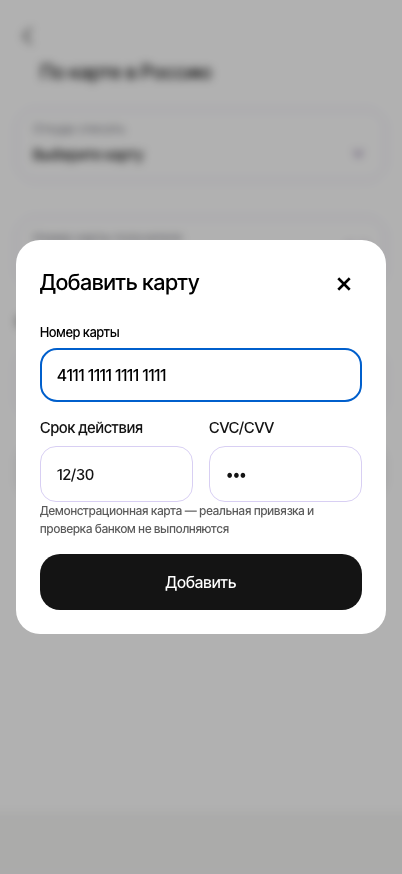
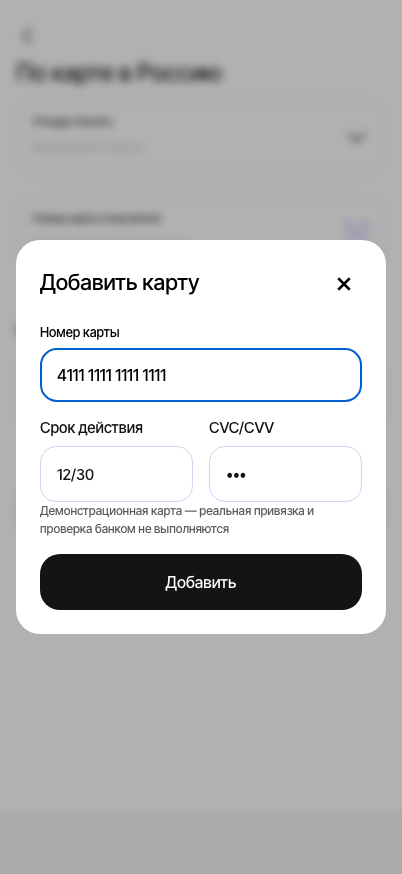
Align card transfer states, fee visibility and input borders with Figma

diff --git a/src/authorized-transfer.js b/src/authorized-transfer.js
@@ -30,7 +30,7 @@ export function createAuthorizedTransfer({ cards, card, recipient, transferKind,
     if (country) transferKind = country === 'RU' ? 'russia' : 'abroad';
   }
   const screen = document.createElement('main');
-  screen.className = 'authorized-transfer';
+  screen.className = 'authorized-transfer card-transfer';
   let source = guest ? cards[0] : repeatAmount != null ? cards.find(c => c.id === card?.id) || null : null;
   let savedRecipient = recipient || null;
   let bank = savedRecipient?.bankInfo || null;
@@ -38,6 +38,8 @@ export function createAuthorizedTransfer({ cards, card, recipient, transferKind,
   let lookupTimer;
   let availability = savedRecipient ? demoCardAvailability('', { saved: true }) : null;
   const international = transferKind === 'abroad';
+  const sourceName = c => c.id === 'debit' ? 'МТС Банк' : c.currency === 'USD' ? 'International' : c.name;
+  const sourceOption = c => `<button type="button" data-source="${escapeHTML(c.id)}" aria-pressed="${source?.id === c.id}" title="${c.balance == null ? 'Баланс недоступен' : 'Доступно '+money(c.balance,c.currency)}"><span class="source-bank-icon ${c.id === 'debit' ? '' : 'is-international'}"><img src="./assets/images/${c.id === 'debit' ? 'card-bank-mts.png' : 'card-bank-international.svg'}" alt=""></span><span class="source-option-copy"><span>${escapeHTML(sourceName(c))} •• ${escapeHTML(c.last4)}</span><small>${c.external ? 'Баланс недоступен' : c.id === 'debit' ? 'МИР' : 'Mastercard'}</small></span><img class="source-radio" src="./assets/images/${source?.id === c.id ? 'card-radio-selected.svg' : 'card-radio-empty.svg'}" alt=""></button>`;
   const title = transferKind === 'abroad' ? 'По карте за границу' : 'По карте в Россию';
   screen.innerHTML = `
     <button class="authorized-back" aria-label="Назад"><img src="./assets/images/back-chevron.svg" alt=""></button>
@@ -45,13 +47,15 @@ export function createAuthorizedTransfer({ cards, card, recipient, transferKind,
     <form novalidate>
       ${international ? '<section class="international-destination"><h2>Страна и валюта получения</h2><p>Россия → Узбекистан · RUB → UZS</p><p class="quote-note">Демонстрационный расчёт</p></section>' : ''}
       <section class="source-section">
-        <div class="source-dropdown"><button type="button" class="source-trigger" aria-expanded="false" aria-controls="source-options"><span class="field-caption">Откуда списать</span><span class="source-value">Выберите карту</span><span class="source-chevron">⌄</span></button>
-          <div id="source-options" class="source-options" hidden>${cards.map(c=>`<button type="button" data-source="${c.id}"><span>${escapeHTML(c.name)} •• ${escapeHTML(c.last4)}</span><small>${c.external ? 'Баланс недоступен' : 'Доступно '+money(c.balance, c.currency)}</small></button>`).join('')}<button type="button" data-add-card>＋ Добавить карту</button></div>
+        <div class="source-dropdown"><button type="button" class="source-trigger" aria-expanded="false" aria-controls="source-options"><span class="field-caption">Откуда списать</span><span class="source-value">Выберите карту</span><img class="source-chevron" src="./assets/images/card-source-chevron.svg" alt=""></button>
+          <div id="source-options" class="source-options" hidden>${cards.map(sourceOption).join('')}<button type="button" data-add-card><img class="source-add-icon" src="./assets/images/card-add.svg" alt=""><span class="source-option-copy"><span>Добавить новую</span><small>Visa, Mastercard</small></span><img class="source-radio" src="./assets/images/card-radio-empty.svg" alt=""></button></div>
         </div>
       </section>
-      <section class="destination-section"><div class="destination-field"><label for="destination-number">Номер карты получателя</label><input id="destination-number" inputmode="numeric" autocomplete="off" placeholder="0000 0000 0000 0000" aria-describedby="destination-error"><button type="button" class="scan-card" aria-label="Сканировать карту"><img src="./assets/images/scan-card.svg" alt=""></button></div><p id="destination-error" class="field-error" role="alert"></p><p class="recipient-bank" role="status"></p><p class="card-availability quote-note" role="status" aria-live="polite"></p></section>
-      <section class="inline-amount"><h2>Сумма</h2><div class="destination-field amount-field"><label for="transfer-amount">Сумма перевода</label><div class="amount-input-row"><input id="transfer-amount" class="transfer-amount-inline" inputmode="decimal" placeholder="0" aria-describedby="amount-error"><span class="amount-currency">₽</span></div><button type="button" class="clear-amount" aria-label="Очистить сумму" hidden>×</button></div><p id="amount-error" class="field-error" role="alert"></p><button type="button" class="add-shortfall" hidden></button><div class="inline-quote" hidden>${international ? '<dl class="quote-summary international-summary"><dt>Курс перевода</dt><dd data-rate>—</dd><dt>Получатель получит</dt><dd data-receive>—</dd></dl>' : ''}<dl class="quote-summary"><dt>Комиссия</dt><dd data-fee>—</dd><dt>Всего к списанию</dt><dd data-total>—</dd></dl><p class="quote-note"></p></div></section>
+      <section class="destination-section"><div class="destination-field"><label for="destination-number">Номер карты получателя</label><input id="destination-number" inputmode="numeric" autocomplete="off" placeholder="0000 0000 0000 0000" aria-describedby="destination-error"><button type="button" class="scan-card" aria-label="Сканировать карту"><img src="./assets/images/card-scan.svg" alt=""></button></div><p id="destination-error" class="field-error" role="alert"></p><p class="recipient-bank" role="status"></p><p class="card-availability quote-note" role="status" aria-live="polite"></p></section>
+      <section class="inline-amount"><h2>Сумма</h2><div class="destination-field amount-field"><label for="transfer-amount">Сумма перевода</label><div class="amount-input-row"><input id="transfer-amount" class="transfer-amount-inline" inputmode="decimal" placeholder="0" aria-describedby="amount-error"><span class="amount-currency">₽</span></div><button type="button" class="clear-amount" aria-label="Очистить сумму" hidden>×</button></div><p id="amount-error" class="field-error" role="alert"></p><button type="button" class="add-shortfall" hidden></button></section><div class="transfer-footer"><div class="inline-quote" hidden>${international ? '<dl class="quote-summary international-summary"><dt>Курс перевода</dt><dd data-rate>—</dd><dt>Получатель получит</dt><dd data-receive>—</dd></dl>' : ''}<dl class="quote-summary"><dt>Комиссия</dt><dd data-fee>—</dd><dt>Всего к списанию</dt><dd data-total>—</dd></dl></div>
       <div class="recipient-next"><button class="authorized-continue" disabled>Продолжить</button></div>
+      </div>
+    <details class="quote-disclosure" hidden><summary>Тариф и условия · демо</summary><p class="quote-note"></p></details>
     </form>
     <dialog class="scan-info"><h2>Сканирование карты</h2><p>В прототипе сканирование недоступно — введите номер карты вручную</p><button type="button">Понятно</button></dialog>`;
   const addDialog=document.createElement('dialog');
@@ -74,11 +78,11 @@ export function createAuthorizedTransfer({ cards, card, recipient, transferKind,
     cards.push(newCard);
     saveDemoWallet();
     const button=document.createElement('button');button.type='button';button.dataset.source=newCard.id;
-    button.innerHTML='<span>Добавленная карта •• '+last4+'</span><small>Баланс недоступен</small>';
+    button.innerHTML=sourceOption(newCard).replace(/^<button[^>]*>|<\/button>$/g,'');
     options.insertBefore(button,options.querySelector('[data-add-card]'));
     source=newCard;
     sourceDetails.dispatchEvent(new Event('pointerenter'));
-    screen.querySelector('.source-value').textContent='Добавленная карта •• '+last4;
+
     addInput.value='';addDetails.clearDemo();addError.textContent='';addDialog.close();update();
   };
   const form = screen.querySelector('form');
@@ -104,7 +108,7 @@ export function createAuthorizedTransfer({ cards, card, recipient, transferKind,
     bankStatus.textContent='';
     lookupTimer=setTimeout(async()=>{
       availability=guest&&digits===sourceNumber?.replace(/\D/g,'')?{available:false,message:'Карты отправителя и получателя должны отличаться'}:demoCardAvailability(digits);
-      availabilityStatus.textContent=availability.message;
+      availabilityStatus.textContent=availability.available?'Карта доступна · демо':availability.message;
       input.setAttribute('aria-invalid',String(!availability.available));
       update();
       try {
@@ -128,6 +132,9 @@ export function createAuthorizedTransfer({ cards, card, recipient, transferKind,
   function update() { updateQuote(); }
   trigger.onclick = () => { options.hidden = !options.hidden; trigger.setAttribute('aria-expanded', String(!options.hidden)); };
   trigger.onkeydown = e => { if(e.key === 'ArrowDown'){ e.preventDefault(); options.hidden=false;trigger.setAttribute('aria-expanded','true');options.querySelector('button').focus(); } };
+  const closeSourceOptions=()=>{options.hidden=true;trigger.setAttribute('aria-expanded','false');};
+  for(const eventName of ['click','focusin'])screen.addEventListener(eventName,event=>{if(!event.target.closest('.source-dropdown'))closeSourceOptions();});
+  screen.addEventListener('keydown',event=>{if(event.key==='Escape'&&!options.hidden){event.stopPropagation();closeSourceOptions();trigger.focus();}});
   options.onkeydown = e => { if(e.key==='Escape'){options.hidden=true;trigger.setAttribute('aria-expanded','false');trigger.focus();} };
   options.onclick = e => {
     if(e.target.closest('[data-add-card]')) {
@@ -138,7 +145,7 @@ export function createAuthorizedTransfer({ cards, card, recipient, transferKind,
     const previousCurrency=source?.currency || 'RUB';
     source=cards.find(c=>c.id===b.dataset.source);
     if(previousCurrency !== (source.currency || 'RUB')) amountInput.value='';
-    screen.querySelector('.source-value').textContent='•• '+source.last4+' · '+(source.external?'баланс недоступен':money(source.balance,source.currency));
+
     options.hidden=true;trigger.setAttribute('aria-expanded','false');trigger.focus();update();
   };
   if(savedRecipient) { input.value=savedRecipient.subtitle; input.readOnly=true; }
@@ -157,7 +164,7 @@ export function createAuthorizedTransfer({ cards, card, recipient, transferKind,
     const number=input.value.replace(/\D/g,'');
     if(guest||!validCard(number)||savedRecipient||offeredCards.has(number))return;
     offerTimer=setTimeout(()=>{
-      if(!availability?.available||!screen.isConnected||input.value.replace(/\D/g,'')!==number||screen.querySelector('dialog[open]')||form.hidden)return;
+      if(!availability?.available||!screen.isConnected||input.value.replace(/\D/g,'')!==number||screen.querySelector('dialog[open]')||form.hidden||!options.hidden)return;
       const last4=number.slice(-4);
       if(demoData.recipients.some(r=>r.last4===last4||r.subtitle?.endsWith(last4)))return;
       offeredCards.add(number);offeredNumber=number;
@@ -184,6 +191,7 @@ export function createAuthorizedTransfer({ cards, card, recipient, transferKind,
   dialog.querySelector('button').onclick=()=>dialog.close();
   screen.querySelector('.authorized-back').onclick=onBack;
   const amountInput=screen.querySelector('#transfer-amount');
+  const normalizedAmount=()=>amountInput.value.replace(/\s/g,'').replace(',','.');
   const amountError=screen.querySelector('#amount-error');
   const clearAmount=screen.querySelector('.clear-amount');
   clearAmount.onclick=()=>{amountInput.value='';updateQuote();amountInput.focus();};
@@ -206,13 +214,22 @@ export function createAuthorizedTransfer({ cards, card, recipient, transferKind,
     if(!pendingTopup)return;
     pendingTopup.source.balance=(Math.round(pendingTopup.source.balance*100)+pendingTopup.kopecks)/100;
     const item=options.querySelector('[data-source="'+pendingTopup.source.id+'"] small');
-    if(item)item.textContent='Доступно '+money(pendingTopup.source.balance,pendingTopup.source.currency);
-    screen.querySelector('.source-value').textContent='•• '+source.last4+' · '+money(source.balance,source.currency);
+    if(item)item.closest('button').title='Доступно '+money(pendingTopup.source.balance,pendingTopup.source.currency);
+
     saveDemoWallet();
     pendingTopup=null;topup.close();updateQuote();
   };
   function updateQuote() {
     sourceDetails.hidden=!source?.external || guest;
+    trigger.classList.toggle('has-source',!!source);
+    if(!guest)screen.querySelector('.source-value').textContent=source?'•• '+source.last4+'   '+sourceName(source):'Выберите карту';
+    options.querySelectorAll('[data-source]').forEach(button=>{
+      const selected=button.dataset.source===source?.id;
+      button.setAttribute('aria-pressed',String(selected));
+      button.querySelector('.source-radio').src='./assets/images/'+(selected?'card-radio-selected.svg':'card-radio-empty.svg');
+    });
+    input.closest('.destination-field').classList.toggle('is-filled',!!input.value);
+    amountInput.closest('.destination-field').classList.toggle('is-filled',!!amountInput.value);
     screen.querySelector('.transfer-review')?.remove();
     const currency=source?.currency || 'RUB';
     screen.querySelector('.amount-currency').textContent=currency==='USD'?'$':'₽';
@@ -221,7 +238,7 @@ export function createAuthorizedTransfer({ cards, card, recipient, transferKind,
     const measure=document.createElement('canvas').getContext('2d');
     measure.font=getComputedStyle(amountInput).font;
     amountInput.style.width=Math.ceil(measure.measureText(amountInput.value || '0').width)+2+'px';
-    const raw=amountInput.value.trim().replace(',','.');
+    const raw=normalizedAmount();
     const value=Number(raw);
     const valid=/^\d+(\.\d{1,2})?$/.test(raw)&&Number.isFinite(value)&&value>0;
     const effectiveBank=bank || {country:international?'UZ':'RU',sameBank:false};
@@ -229,11 +246,14 @@ export function createAuthorizedTransfer({ cards, card, recipient, transferKind,
     const supported=source&&(!source.currency||source.currency==='RUB')&&bankSupported;
     currentQuote=valid&&supported&&availability?.available?(international?internationalDemoQuote(value,source.balance):domesticQuote(value,source.balance,effectiveBank.sameBank)):null;
     if(international){quoteBox.querySelector('[data-rate]').textContent=currentQuote?'1 ₽ = 150 UZS':'—';quoteBox.querySelector('[data-receive]').textContent=currentQuote?new Intl.NumberFormat('ru-RU',{maximumFractionDigits:2}).format(currentQuote.receive)+' UZS':'—';}
-    quoteBox.hidden=!raw;
-    quoteBox.querySelector('[data-fee]').textContent=currentQuote?money(currentQuote.fee):'—';
-    quoteBox.querySelector('[data-total]').textContent=currentQuote?money(currentQuote.total):'—';
-    quoteBox.querySelector('.quote-note').textContent=!source?'Выберите карту списания':source.external?'Демонстрационный расчёт · баланс и комиссия банка добавленной карты не проверяются':!bank?'Демонстрационный расчёт: 1,5%, минимум 50 ₽ · банк не определён':!bankSupported?'Страна банка не соответствует выбранному направлению':!supported?(international?'Выберите направление и получите расчёт курса и комиссии — перевод пока недоступен':'Для этого направления нужен отдельный тариф и курс конвертации'):international?'Пример: курс 1 ₽ = 150 UZS, комиссия 0 ₽ · не является текущим предложением МТС':bank.sameBank?'На карту МТС Банка · без комиссии':'В другой российский банк · 1,5%, минимум 50 ₽';
-    amountError.textContent=raw&&!valid?'Введите сумму больше нуля, не более двух знаков после запятой':currentQuote?.insufficient?'Недостаточно средств с учётом комиссии · не хватает '+money(currentQuote.total-source.balance):'';
+    const showQuote=ready() && !!supported;
+    quoteBox.hidden=!showQuote;
+    screen.classList.toggle('has-quote',showQuote);
+    screen.querySelector('.quote-disclosure').hidden=!showQuote;
+    quoteBox.querySelector('[data-fee]').textContent=currentQuote?money(currentQuote.fee):!raw?'0 ₽':'—';
+    quoteBox.querySelector('[data-total]').textContent=currentQuote?money(currentQuote.total):!raw?'0 ₽':'—';
+    screen.querySelector('.quote-disclosure .quote-note').textContent=!source?'Выберите карту списания':source.external?'Демонстрационный расчёт · баланс и комиссия банка добавленной карты не проверяются':!bank?'Демонстрационный расчёт: 1,5%, минимум 50 ₽ · банк не определён':!bankSupported?'Страна банка не соответствует выбранному направлению':!supported?(international?'Выберите направление и получите расчёт курса и комиссии — перевод пока недоступен':'Для этого направления нужен отдельный тариф и курс конвертации'):international?'Пример: курс 1 ₽ = 150 UZS, комиссия 0 ₽ · не является текущим предложением МТС':bank.sameBank?'На карту МТС Банка · без комиссии':'В другой российский банк · 1,5%, минимум 50 ₽';
+    amountError.textContent=raw&&!valid?'Введите сумму больше нуля, не более двух знаков после запятой':ready()&&!bankSupported?'Страна банка не соответствует выбранному направлению':ready()&&!supported?'Для карты в этой валюте перевод по выбранному направлению недоступен':currentQuote?.insufficient?'Недостаточно средств с учётом комиссии · не хватает '+money(currentQuote.total-source.balance):'';
     amountInput.setAttribute('aria-invalid',String(!!amountError.textContent));
     addShortfall.hidden=!currentQuote?.insufficient;
     if(currentQuote?.insufficient) {
@@ -243,22 +263,29 @@ export function createAuthorizedTransfer({ cards, card, recipient, transferKind,
     next.disabled=!ready()||!currentQuote||currentQuote.insufficient||(!guest&&source?.external&&!sourceDetails.demoComplete());
   }
   amountInput.oninput=updateQuote;
+  amountInput.onblur=()=>{
+    const raw=normalizedAmount();
+    if(/^\d+(\.\d{1,2})?$/.test(raw)&&Number.isFinite(Number(raw))) {
+      amountInput.value=new Intl.NumberFormat('ru-RU',{maximumFractionDigits:2}).format(Number(raw));
+      updateQuote();
+    }
+  };
   form.onsubmit=e=>{
     e.preventDefault();if(next.disabled||!currentQuote)return;
     screen.querySelector('.transfer-review')?.remove();
     const review=document.createElement('section');review.className='transfer-review';
-    review.innerHTML='<h2>Проверьте перевод</h2><div class="review-recipient"><span>Получатель</span><strong>Карта •• '+(savedRecipient?savedRecipient.subtitle.slice(-4):input.value.replace(/\D/g,'').slice(-4))+'</strong></div><dl class="review-breakdown"><dt>Сумма перевода</dt><dd>'+money(Number(amountInput.value.replace(',','.')))+'</dd><dt>Комиссия</dt><dd>'+money(currentQuote.fee)+'</dd></dl><div class="review-total"><span>Всего к списанию</span><strong>'+money(currentQuote.total)+'</strong></div><p class="review-demo-note">В прототипе списания не выполняются</p>';
+    review.innerHTML='<h2>Проверьте перевод</h2><div class="review-recipient"><span>Получатель</span><strong>Карта •• '+(savedRecipient?savedRecipient.subtitle.slice(-4):input.value.replace(/\D/g,'').slice(-4))+'</strong></div><dl class="review-breakdown"><dt>Сумма перевода</dt><dd>'+money(Number(normalizedAmount()))+'</dd><dt>Комиссия</dt><dd>'+money(currentQuote.fee)+'</dd></dl><div class="review-total"><span>Всего к списанию</span><strong>'+money(currentQuote.total)+'</strong></div><p class="review-demo-note">В прототипе списания не выполняются</p>';
     if(international){const received=document.createElement('p');received.className='review-receive';received.textContent='Получатель получит '+new Intl.NumberFormat('ru-RU').format(currentQuote.receive)+' UZS · демонстрационный курс 1 ₽ = 150 UZS';review.append(received);}
     const send=document.createElement('button');send.type='button';send.className='authorized-continue';send.textContent='Перевести в прототипе';review.append(send);
     let sent=false;
     send.onclick=async()=>{
       if(sent)return;
-      const quote=international?internationalDemoQuote(Number(amountInput.value.replace(',','.')),source.balance):domesticQuote(Number(amountInput.value.replace(',','.')),source.balance,bank?.sameBank || false);
+      const quote=international?internationalDemoQuote(Number(normalizedAmount()),source.balance):domesticQuote(Number(normalizedAmount()),source.balance,bank?.sameBank || false);
       if(quote.insufficient){updateQuote();return;}
       sent=true;send.disabled=true;
       const last4=savedRecipient?.last4 || (savedRecipient?.subtitle.match(/(\d{4})$/)?.[1]) || input.value.replace(/\D/g,'').slice(-4);
       const recipientName=savedRecipient?.name || 'Получатель •• '+last4;
-      const operation={id:'sent-'+crypto.randomUUID(),cardId:source.id,name:recipientName,initials:savedRecipient?.initials||'П',color:'#d4b6ff',date:'Только что',amount:-Number(amountInput.value.replace(',','.')),fee:quote.fee,status:'Выполнен',last4,recipientId:savedRecipient?.id,transferKind:transferKind||'russia',receive:quote.receive,receiveCurrency:international?'UZS':undefined,bankInfo:bank};
+      const operation={id:'sent-'+crypto.randomUUID(),cardId:source.id,name:recipientName,initials:savedRecipient?.initials||'П',color:'#d4b6ff',date:'Только что',amount:-Number(normalizedAmount()),fee:quote.fee,status:'Выполнен',last4,recipientId:savedRecipient?.id,transferKind:transferKind||'russia',receive:quote.receive,receiveCurrency:international?'UZS':undefined,bankInfo:bank};
       sessionStorage.setItem('c2c-pending-transfer',JSON.stringify({operation,total:quote.total,readyAt:Date.now()+5000}));
       form.hidden=true;
       screen.classList.add('is-processing');
@@ -295,7 +322,8 @@ export function createAuthorizedTransfer({ cards, card, recipient, transferKind,
     input.value=initialNumber || '';
     detectBank();
   }
-  if(savedRecipient){bankStatus.textContent=bank?bank.name:'';availabilityStatus.textContent=availability.message;}
+  if(savedRecipient){bankStatus.textContent=bank?bank.name:'';availabilityStatus.textContent=availability.available?'Карта доступна · демо':availability.message;}
   if(repeatAmount != null){amountInput.value=String(repeatAmount);if(source)screen.querySelector('.source-value').textContent='•• '+source.last4+' · '+(source.external?'баланс недоступен':money(source.balance,source.currency));updateQuote();}
+  updateQuote();
   return screen;
 }

diff --git a/src/styles.css b/src/styles.css
@@ -1095,3 +1095,60 @@ body:has(.is-processing) .home-indicator {
   .transfer-processing .loading-globe { animation:none; }
   .transfer-processing .processing-track img { animation:loading-soft-pulse 1.8s linear infinite alternate; }
 }
+
+/* Card transfer states — Figma 137:4089, 137:3999, 140:2165, 140:2385. */
+body:has(.card-transfer:not(.is-processing)) #app { width:100%; transform:none; background:white; }
+body:has(.card-transfer) .home-indicator { height:calc(32px + env(safe-area-inset-bottom)); padding-top:20px; }
+.card-transfer { padding:16px 16px 67px; }
+.card-transfer>h1 { margin:4px 0 16px; font:500 24px/25px 'Inter Tight',sans-serif; }
+.card-transfer>form { position:relative; display:flex; flex-direction:column; }
+.card-transfer.has-quote>form { min-height:calc(100dvh - 230px - env(safe-area-inset-top)); }
+.card-transfer .source-trigger { gap:4px; border-color:var(--c2c-border-default); }
+.card-transfer .field-caption,.card-transfer .destination-field label { font:500 11px/16px 'Inter Tight',sans-serif; color:#141414; }
+.card-transfer .source-value { color:#d5d5da; }
+.card-transfer .has-source .field-caption,.card-transfer .is-filled label { color:#d5d5da; }
+.card-transfer .has-source .source-value { color:#141414; }
+.card-transfer .source-chevron { width:24px; height:24px; top:23px; right:16px; transform:rotate(180deg); }
+.card-transfer .source-trigger[aria-expanded=true] { height:84px; padding:16px; gap:9px; }
+.card-transfer .source-trigger[aria-expanded=true] .source-chevron { top:42px; transform:none; }
+.card-transfer .source-options { top:92px; padding:7px; border:1px solid var(--c2c-border-default); box-shadow:none; }
+.card-transfer .source-options button { height:72px; padding:12px; display:flex; gap:12px; align-items:center; border-radius:14px; }
+.card-transfer .source-options button+button { margin-top:4px; }
+.card-transfer .source-options [aria-pressed=true] { background:#e5e2f6; }
+.source-bank-icon { width:32px; height:32px; display:grid; place-items:center; flex-shrink:0; }
+.source-bank-icon>img { width:32px; height:32px; border-radius:50%; }
+.source-bank-icon.is-international { background:#ffecbd; border-radius:50%; }
+.source-bank-icon.is-international>img { width:24px; height:24px; }
+.source-option-copy { display:flex; flex:1; min-width:0; flex-direction:column; gap:4px; color:#141414; font-size:15px; line-height:18px; }
+.source-option-copy>span { white-space:nowrap; overflow:hidden; text-overflow:ellipsis; }
+.card-transfer .source-options small { margin:0; color:#414141; font-size:11px; line-height:16px; }
+.source-radio { width:24px; height:24px; }
+.source-add-icon { width:40px; height:30px; margin-right:0; }
+.card-transfer .destination-section { margin-top:24px; position:relative; }
+.card-transfer .destination-field { height:72px; padding:12px 16px; display:flex; flex-direction:column; gap:4px; }
+.card-transfer .destination-field input { padding:0; margin:0; }
+.card-transfer .destination-field input::placeholder { color:#d5d5da; opacity:1; }
+.card-transfer .recipient-bank,.card-transfer .card-availability { position:absolute; top:76px; left:0; right:0; margin:0; font-size:11px; line-height:16px; }
+.card-transfer .recipient-bank:not(:empty)+.card-availability { top:94px; }
+.card-transfer .card-availability:empty { display:none; }
+.card-transfer .destination-section>.field-error { margin:8px 0 0; }
+.card-transfer .destination-section:has(input[aria-invalid=true]) .card-availability { position:static; margin-top:8px; color:#b83d45; }
+.card-transfer .inline-amount { margin-top:48px; }
+.card-transfer .inline-amount h2 { height:25px; line-height:25px; margin:0 0 16px; }
+.card-transfer .amount-field { gap:4px; }
+.card-transfer .amount-input-row { flex-shrink:0; }
+.card-transfer .transfer-footer { margin-top:52px; }
+.card-transfer.has-quote .transfer-footer { margin-top:auto; padding-top:32px; }
+.card-transfer .inline-quote { margin:0; padding:0; font-size:15px; line-height:18px; }
+.card-transfer .quote-summary { margin:0; gap:24px 12px; }
+.card-transfer .recipient-next { margin:0; }
+.card-transfer.has-quote .recipient-next { margin-top:32px; }
+.card-transfer .authorized-continue:disabled { color:#414141; }
+.card-transfer .quote-disclosure { position:absolute; top:100%; left:0; right:0; margin-top:12px; font-size:11px; line-height:16px; color:#72727c; }
+.card-transfer .quote-disclosure summary { cursor:pointer; }
+.card-transfer .quote-disclosure p { padding:8px 0 16px; }
+.card-transfer .international-summary { margin-bottom:24px; padding-bottom:16px; }
+.card-transfer .clear-amount { font-size:20px; }
+.card-transfer:has(.source-trigger[aria-expanded=true]) .destination-section,
+.card-transfer:has(.source-trigger[aria-expanded=true]) .inline-amount,
+.card-transfer:has(.source-trigger[aria-expanded=true]) .source-section>.card-details-row { visibility:hidden; }

diff --git a/README.md b/README.md
@@ -90,3 +90,13 @@ npm test
 Проверка: `node tests/loading-figma.mjs` при запущенном сервере. Геометрия 402 × 874, шесть размеров окна, доступный статус, восстановление операции без повторного списания. Снимки: `screenshots/loading-figma-402x874.png`, `screenshots/loading-figma-320x640.png`.
 
 Анимация загрузки: глобус равномерно вращается (36 секунд на оборот), розовый индикатор движется по дорожке за 2,5 секунды и возвращается. Движение работает только пока отображается обработка; фактический процент не моделируется. При `prefers-reduced-motion` вращение отключено, индикатор мягко меняет прозрачность. Проверка `tests/loading-figma.mjs` также проверяет движение обеих анимаций и этот режим доступности.
+
+## Перевод по карте: состояния формы и комиссия
+
+Повторно сверены Figma `137:4089` (пустая форма), `137:3999` (раскрытый список), `140:2165` (карты заполнены, сумма пустая), `140:2385` (сумма и комиссия), а также гостевые варианты `138:5534`/`138:5516`. Обновлены размеры заголовка и полей, интервалы, иконки и выбранное состояние списка карт. Используется нативная цифровая клавиатура устройства; нарисованная клавиатура Figma в веб-форму не встраивается.
+
+Комиссия и итог появляются после выбора карты отправителя и успешной демонстрационной проверки получателя. До ввода суммы отображаются нули и неактивная кнопка. После ввода суммы действуют существующие демонстрационные правила: 1,5%, минимум 50 ₽ для другого российского банка; 0 ₽ для МТС Банка. Итог всегда равен сумме плюс комиссия; противоречивые числа из заполненных фреймов не копируются. Пример: 5 000 ₽ + 75 ₽ = 5 075 ₽. При очистке или отказе по карте блок скрывается; неподдерживаемая валюта/страна сопровождается объяснением. Тариф доступен в раскрываемом блоке под кнопкой.
+
+Проверка: `node tests/card-transfer-figma.mjs` при запущенном сервере. Пустое, выбранное, раскрытое и заполненное состояния, появление комиссии, минимальная и процентная комиссия, перевод внутри банка, ошибки, недостаток средств, сохранённый получатель, полный авторизованный перевод и адаптивность. Снимки: `screenshots/card-transfer-*.png`.
+
+Актуализация компонента выбора карты `101:591`: границы пустого, выбранного и раскрытого поля, а также списка карт используют `--c2c-border-default` (`#D5D5DA`). Остальные поля сохраняют собственные состояния и цвета из соответствующих макетов.
